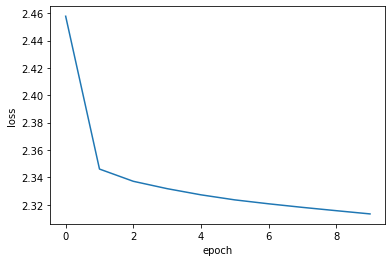
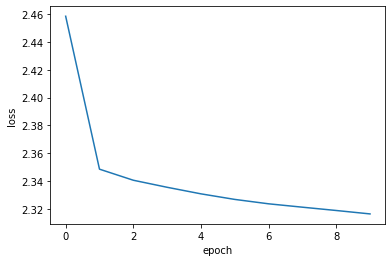
Building md and ipynb from python script

diff --git a/examples/graph/node2vec_movielens.py b/examples/graph/node2vec_movielens.py
@@ -481,8 +481,11 @@ model.compile(
 Let's plot the model.
 """
 
-tf.keras.utils.plot_model(
-    model, show_shapes=True, show_dtype=True, show_layer_names=True,
+keras.utils.plot_model(
+    model,
+    show_shapes=True,
+    show_dtype=True,
+    show_layer_names=True,
 )
 
 """

diff --git a/examples/graph/md/node2vec_movielens.md b/examples/graph/md/node2vec_movielens.md
@@ -44,7 +44,7 @@ or movie genres prediction.
 
 This example requires `networkx` package, which can be installed using the following command:
 
-```
+```shell
 pip install networkx
 ```
 
@@ -326,7 +326,7 @@ for group in tqdm(
 
 <div class="k-default-codeblock">
 ```
-Compute movie rating frequencies: 100%|██████████| 573/573 [00:00<00:00, 1041.36it/s]
+Compute movie rating frequencies: 100%|███████████████████████████████████████████████████████████████████████████| 573/573 [00:00<00:00, 1153.55it/s]
 
 ```
 </div>
@@ -360,7 +360,7 @@ for pair in tqdm(
 
 <div class="k-default-codeblock">
 ```
-Creating the movie graph: 100%|██████████| 298586/298586 [00:00<00:00, 762305.97it/s]
+Creating the movie graph: 100%|███████████████████████████████████████████████████████████████████████████| 298586/298586 [00:00<00:00, 510871.02it/s]
 
 ```
 </div>
@@ -509,11 +509,11 @@ print("Number of walks generated:", len(walks))
 
 <div class="k-default-codeblock">
 ```
-Random walks iteration 1 of 5: 100%|██████████| 1405/1405 [00:04<00:00, 296.67it/s]
-Random walks iteration 2 of 5: 100%|██████████| 1405/1405 [00:05<00:00, 274.60it/s]
-Random walks iteration 3 of 5: 100%|██████████| 1405/1405 [00:04<00:00, 281.69it/s]
-Random walks iteration 4 of 5: 100%|██████████| 1405/1405 [00:04<00:00, 285.56it/s]
-Random walks iteration 5 of 5: 100%|██████████| 1405/1405 [00:04<00:00, 301.79it/s]
+Random walks iteration 1 of 5: 100%|█████████████████████████████████████████████████████████████████████████████| 1405/1405 [00:04<00:00, 330.58it/s]
+Random walks iteration 2 of 5: 100%|█████████████████████████████████████████████████████████████████████████████| 1405/1405 [00:04<00:00, 350.29it/s]
+Random walks iteration 3 of 5: 100%|█████████████████████████████████████████████████████████████████████████████| 1405/1405 [00:03<00:00, 352.96it/s]
+Random walks iteration 4 of 5: 100%|█████████████████████████████████████████████████████████████████████████████| 1405/1405 [00:04<00:00, 341.28it/s]
+Random walks iteration 5 of 5: 100%|█████████████████████████████████████████████████████████████████████████████| 1405/1405 [00:04<00:00, 349.09it/s]
 
 Number of walks generated: 7025
 
@@ -587,7 +587,7 @@ targets, contexts, labels, weights = generate_examples(
 
 <div class="k-default-codeblock">
 ```
-Generating postive and negative examples: 100%|██████████| 7025/7025 [00:11<00:00, 638.29it/s]
+Generating postive and negative examples: 100%|██████████████████████████████████████████████████████████████████| 7025/7025 [00:10<00:00, 667.68it/s]
 
 ```
 </div>
@@ -603,10 +603,10 @@ print(f"Weights shape: {weights.shape}")
 
 <div class="k-default-codeblock">
 ```
-Targets shape: (880170,)
-Contexts shape: (880170,)
-Labels shape: (880170,)
-Weights shape: (880170,)
+Targets shape: (879547,)
+Contexts shape: (879547,)
+Labels shape: (879547,)
+Weights shape: (879547,)
 
 ```
 </div>
@@ -707,16 +707,22 @@ Let's plot the model.
 
 ```python
 keras.utils.plot_model(
-    model, show_shapes=True, show_dtype=True, show_layer_names=True,
+    model,
+    show_shapes=True,
+    show_dtype=True,
+    show_layer_names=True,
 )
 ```
 
-<div class="k-default-codeblock">
-```
-('Failed to import pydot. You must `pip install pydot` and install graphviz (https://graphviz.gitlab.io/download/), ', 'for `pydotprint` to work.')
 
-```
-</div>
+
+
+    
+![png](/img/examples/graph/node2vec_movielens/node2vec_movielens_44_0.png)
+    
+
+
+
 Now we train the model on the `dataset`.
 
 
@@ -727,25 +733,25 @@ history = model.fit(dataset, epochs=num_epochs)
 <div class="k-default-codeblock">
 ```
 Epoch 1/10
-859/859 [==============================] - 3s 3ms/step - loss: 3.4761
+858/858 [==============================] - 4s 4ms/step - loss: 2.4586
 Epoch 2/10
-859/859 [==============================] - 2s 3ms/step - loss: 3.3149
+858/858 [==============================] - 3s 4ms/step - loss: 2.3485
 Epoch 3/10
-859/859 [==============================] - 2s 3ms/step - loss: 3.2930
+858/858 [==============================] - 3s 4ms/step - loss: 2.3405
 Epoch 4/10
-859/859 [==============================] - 3s 3ms/step - loss: 3.2771
+858/858 [==============================] - 3s 4ms/step - loss: 2.3354
 Epoch 5/10
-859/859 [==============================] - 2s 3ms/step - loss: 3.2673
+858/858 [==============================] - 3s 4ms/step - loss: 2.3307
 Epoch 6/10
-859/859 [==============================] - 2s 3ms/step - loss: 3.2592
+858/858 [==============================] - 3s 4ms/step - loss: 2.3267
 Epoch 7/10
-859/859 [==============================] - 2s 3ms/step - loss: 3.2508
+858/858 [==============================] - 3s 4ms/step - loss: 2.3235
 Epoch 8/10
-859/859 [==============================] - 3s 3ms/step - loss: 3.2418
+858/858 [==============================] - 3s 4ms/step - loss: 2.3211
 Epoch 9/10
-859/859 [==============================] - 2s 3ms/step - loss: 3.2354
+858/858 [==============================] - 3s 4ms/step - loss: 2.3187
 Epoch 10/10
-859/859 [==============================] - 3s 3ms/step - loss: 3.2273
+858/858 [==============================] - 3s 4ms/step - loss: 2.3162
 
 ```
 </div>
@@ -845,9 +851,9 @@ for idx, title in enumerate(query_movies):
 Matrix, The (1999)
 ------------------
 - Matrix, The (1999)
-- Inception (2010)
-- Dark Knight, The (2008)
-- Back to the Future (1985)
+- Raiders of the Lost Ark (Indiana Jones and the Raiders of the Lost Ark) (1981)
+- Fight Club (1999)
+- Star Wars: Episode IV - A New Hope (1977)
 - Lord of the Rings: The Fellowship of the Ring, The (2001)
 ```
 </div>
@@ -856,11 +862,11 @@ Matrix, The (1999)
 ```
 Star Wars: Episode IV - A New Hope (1977)
 -----------------------------------------
-- Star Wars: Episode V - The Empire Strikes Back (1980)
 - Star Wars: Episode IV - A New Hope (1977)
-- Back to the Future (1985)
+- Raiders of the Lost Ark (Indiana Jones and the Raiders of the Lost Ark) (1981)
 - Matrix, The (1999)
-- Star Wars: Episode VI - Return of the Jedi (1983)
+- Star Wars: Episode V - The Empire Strikes Back (1980)
+- Reservoir Dogs (1992)
 ```
 </div>
     
@@ -869,10 +875,10 @@ Star Wars: Episode IV - A New Hope (1977)
 Lion King, The (1994)
 ---------------------
 - Lion King, The (1994)
-- Beauty and the Beast (1991)
-- Jurassic Park (1993)
-- Mrs. Doubtfire (1993)
-- Independence Day (a.k.a. ID4) (1996)
+- Aladdin (1992)
+- Braveheart (1995)
+- Die Hard: With a Vengeance (1995)
+- Apollo 13 (1995)
 ```
 </div>
     
@@ -880,11 +886,11 @@ Lion King, The (1994)
 ```
 Terminator 2: Judgment Day (1991)
 ---------------------------------
-- Terminator 2: Judgment Day (1991)
-- Star Wars: Episode VI - Return of the Jedi (1983)
-- Apollo 13 (1995)
-- Star Wars: Episode V - The Empire Strikes Back (1980)
 - Braveheart (1995)
+- Terminator 2: Judgment Day (1991)
+- Forrest Gump (1994)
+- Schindler's List (1993)
+- Usual Suspects, The (1995)
 ```
 </div>
     
@@ -893,10 +899,10 @@ Terminator 2: Judgment Day (1991)
 Godfather, The (1972)
 ---------------------
 - Godfather, The (1972)
-- Reservoir Dogs (1992)
-- Apocalypse Now (1979)
 - Fargo (1996)
-- American Beauty (1999)
+- Apocalypse Now (1979)
+- Reservoir Dogs (1992)
+- Raiders of the Lost Ark (Indiana Jones and the Raiders of the Lost Ark) (1981)
 ```
 </div>
     
@@ -923,3 +929,9 @@ out_m.close()
 
 Download the `embeddings.tsv` and `metadata.tsv` to analyze the obtained embeddings
 in the [Embedding Projector](https://projector.tensorflow.org/).
+
+**Example available on HuggingFace**
+
+| Trained Model | Demo |
+| :--: | :--: |
+| [![Generic badge](https://img.shields.io/badge/%F0%9F%A4%97%20Model%3A%20-Node2Vec%20Movielens-black.svg)](https://huggingface.co/keras-io/Node2Vec_MovieLens) | [![Generic badge](https://img.shields.io/badge/%F0%9F%A4%97%20Spaces%3A-Node2Vec%20Movielens-black.svg)](https://huggingface.co/spaces/keras-io/Node2Vec_MovieLens) |
